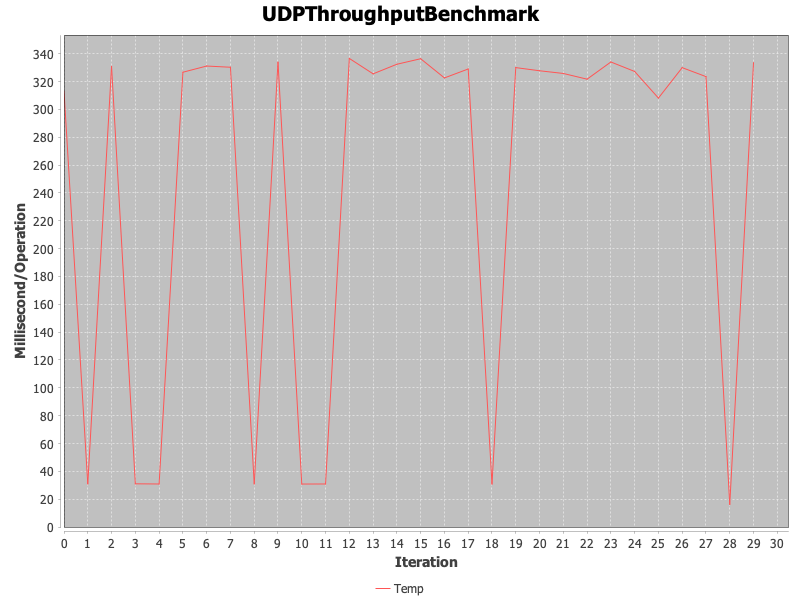
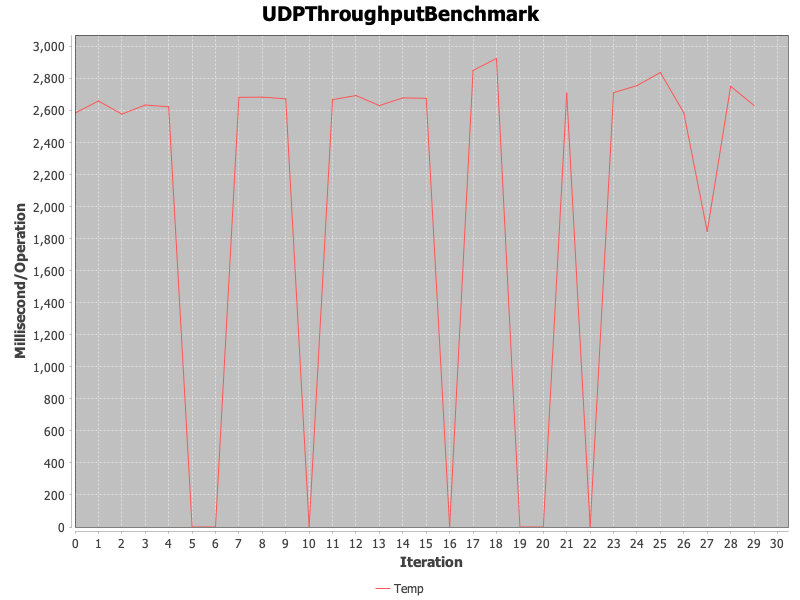
Fixed skipping packets in packet loss

diff --git a/src/main/resources/static/index.html b/src/main/resources/static/index.html
@@ -10,19 +10,23 @@
             height: 100%;
         }
 
+        figure {
+            padding: 0;
+            margin: 1em;
+        }
+
         .div {
             border: 1.5px solid #bfbfbf;
-            margin: 3rem;
-            height: calc(100vh - 6rem);
+            /*height: calc(100vh - 6rem);*/
             box-sizing: border-box;
             display: grid;
-            grid-template-columns: 1fr 1fr;
         }
 
         .centered {
             display: flex;
+            margin: 0;
+            padding: 0;
             align-content: center;
-            flex-direction: column;
             height: inherit;
             width: inherit;
         }
@@ -32,6 +36,7 @@
             max-height: 100%;
             object-fit: contain;
             border: 1px solid #bfbfbf;
+            gap:0;
         }
 
         .data-columns {
@@ -40,24 +45,67 @@
 </head>
 <body>
 <div class="div">
+    <h1>
+        Latency
+    </h1>
     <div class="centered">
-        <h1>
-            Latency
-        </h1>
         <figure>
-            <img src="UDP%20Latency%20Benchmark.png"/>
+            <img src="[8]TCPLatencyBenchmark.png"/>
+        </figure>
+        <figure>
+            <img src="[64]TCPLatencyBenchmark.png"/>
+        </figure>
+        <figure>
+            <img src="[256]TCPLatencyBenchmark.png"/>
+        </figure>
+        <figure>
+            <img src="[512]TCPLatencyBenchmark.png"/>
+        </figure>
+    </div>
+    <div class="centered">
+        <figure>
+            <img src="[8]UDPLatencyBenchmark.png"/>
+        </figure>
+        <figure>
+            <img src="[64]UDPLatencyBenchmark.png"/>
+        </figure>
+        <figure>
+            <img src="[256]UDPLatencyBenchmark.png"/>
+        </figure>
+        <figure>
+            <img src="[512]UDPLatencyBenchmark.png"/>
+        </figure>
+    </div>
 
+    <h1>
+        Throughput
+    </h1>
+    <div class="centered">
+        <figure>
+            <img src="[1024]UDPThroughputBenchmark.png"/>
+        </figure>
+        <figure>
+            <img src="[512]UDPThroughputBenchmark.png"/>
+        </figure>
+        <figure>
+            <img src="[256]UDPThroughputBenchmark.png"/>
         </figure>
     </div>
     <div class="centered">
-        <h1>
-            Throughput
-        </h1>
         <figure>
-            <img src="UDP%20Throughput%20Benchmark.png"/>
-            <figcaption>hey</figcaption>
+            <img src="[1024]UDPThroughputBenchmark.png"/>
+        </figure>
+        <figure>
+            <img src="[512]UDPThroughputBenchmark.png"/>
+        </figure>
+        <figure>
+            <img src="[256]UDPThroughputBenchmark.png"/>
         </figure>
     </div>
+
+    <h1>
+        Data Analysis
+    </h1>
 </div>
 
 </body>

diff --git a/src/main/java/org/network/Client.java b/src/main/java/org/network/Client.java
@@ -244,6 +244,7 @@ public class Client {
 
     static void throughputUDP() {
         ArrayList<Double> udpThroughputData = new ArrayList<>();
+        boolean loopBroken = false;
         try (DatagramSocket socket = new DatagramSocket(26881)) {
             socket.setSoTimeout(30000);
             InetAddress address = InetAddress.getByName(host);
@@ -265,17 +266,23 @@ public class Client {
                     } catch (SocketTimeoutException e) {
                         // Handle timeout (packet lost)
                         System.err.println("Packet lost or no response from server, skipping to next message...");
-                        continue;
+                        loopBroken = true;
+                        break;
                     } catch (IOException e) {
                         throw new RuntimeException(e);
                     }
                 }
-                long receiveTime = System.nanoTime();
-                double diffInSeconds = (receiveTime - sendTime) * 1e-9;
-                udpThroughputData.add(Helpers.iterations / diffInSeconds);
-
-                System.out.println("All " + Helpers.msgSize + " packets sent and received in " + diffInSeconds +
-                        " seconds with a throughput of " + Helpers.iterations / diffInSeconds + " op/s");
+                if (!loopBroken) {
+                    long receiveTime = System.nanoTime();
+                    double diffInSeconds = (receiveTime - sendTime) * 1e-9;
+                    double throughput = (Helpers.msgSize * Byte.SIZE) / (diffInSeconds);
+                    udpThroughputData.add(throughput);
+                    System.out.println("All " + Helpers.numberOfMessages + " packets sent and received in " + diffInSeconds +
+                            " seconds with a throughput of " + throughput + " op/s");
+                } else {
+                    udpThroughputData.add(0.0);
+                    loopBroken = false;
+                }
             }
         } catch (SocketException | UnknownHostException e) {
             throw new RuntimeException(e);

diff --git a/src/main/java/org/network/UDPServer2.java b/src/main/java/org/network/UDPServer2.java
@@ -9,6 +9,8 @@ import java.net.SocketTimeoutException;
 import java.util.concurrent.TimeoutException;
 
 public class UDPServer2 {
+    static int numHits = 0;
+
     public static void main(String[] args) {
         int maxBufferSize = 512;
         try (DatagramSocket serverSocket = new DatagramSocket(26882)) {
@@ -22,6 +24,9 @@ public class UDPServer2 {
                     maxBufferSize = packet.getLength();
                     byte[] data = packet.getData();
                     String message = new String(Helpers.xorEncode(data, Helpers.key));
+                    if (message.length() > 8 && message.substring(message.length() - 8).equals(Client.agreement)) {
+                        numHits++;
+                    }
 
                     DatagramPacket responsePacket = new DatagramPacket(
                             data, maxBufferSize, packet.getAddress(), packet.getPort());
